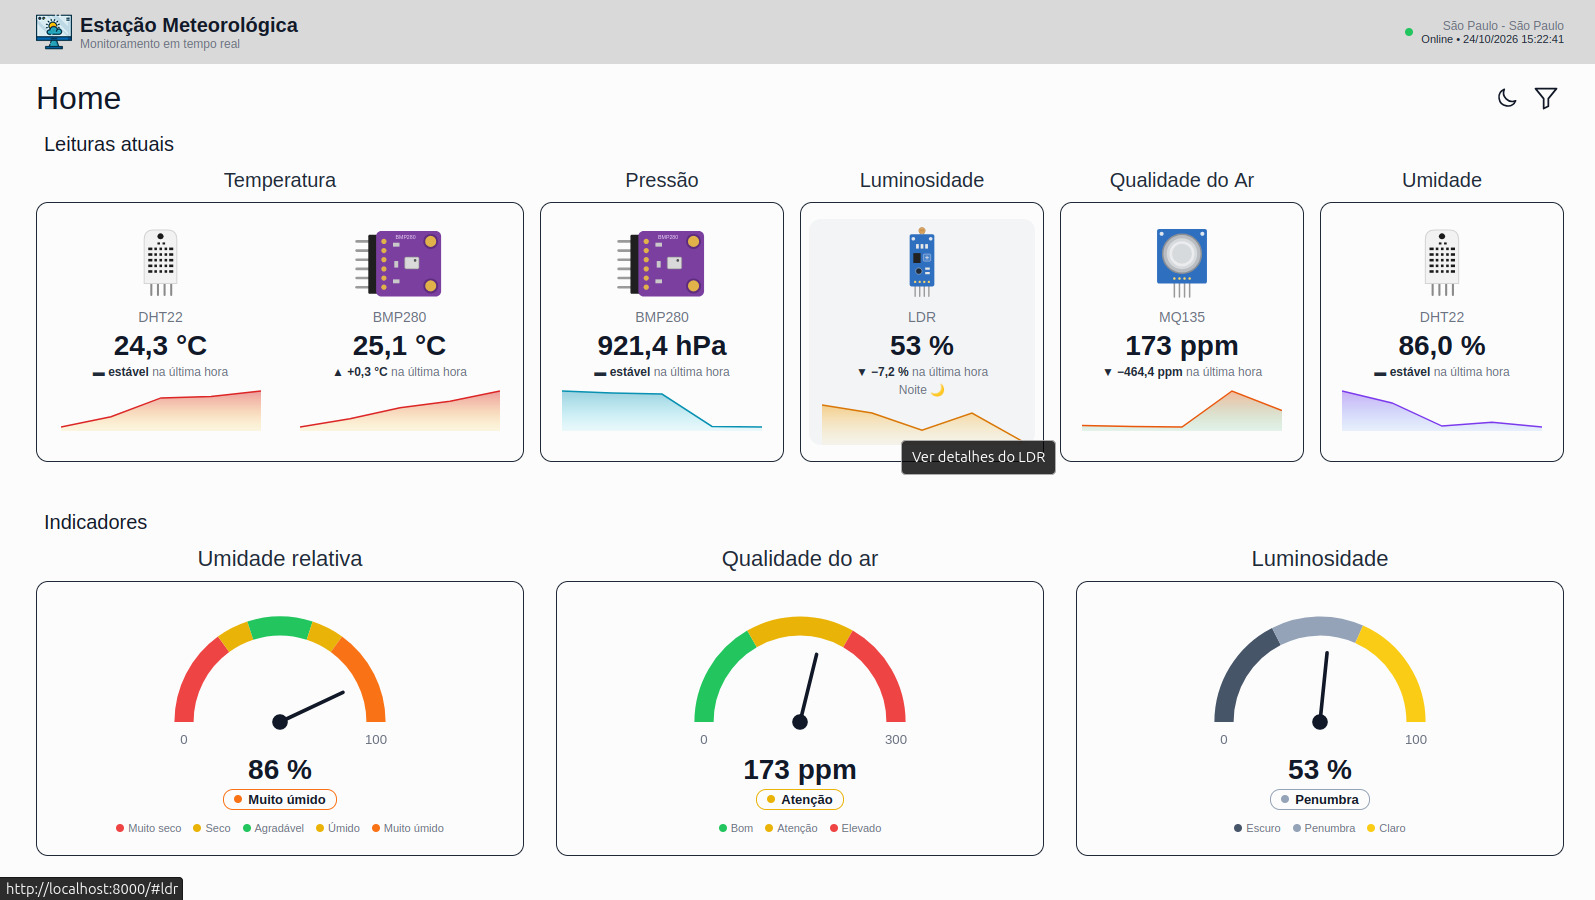
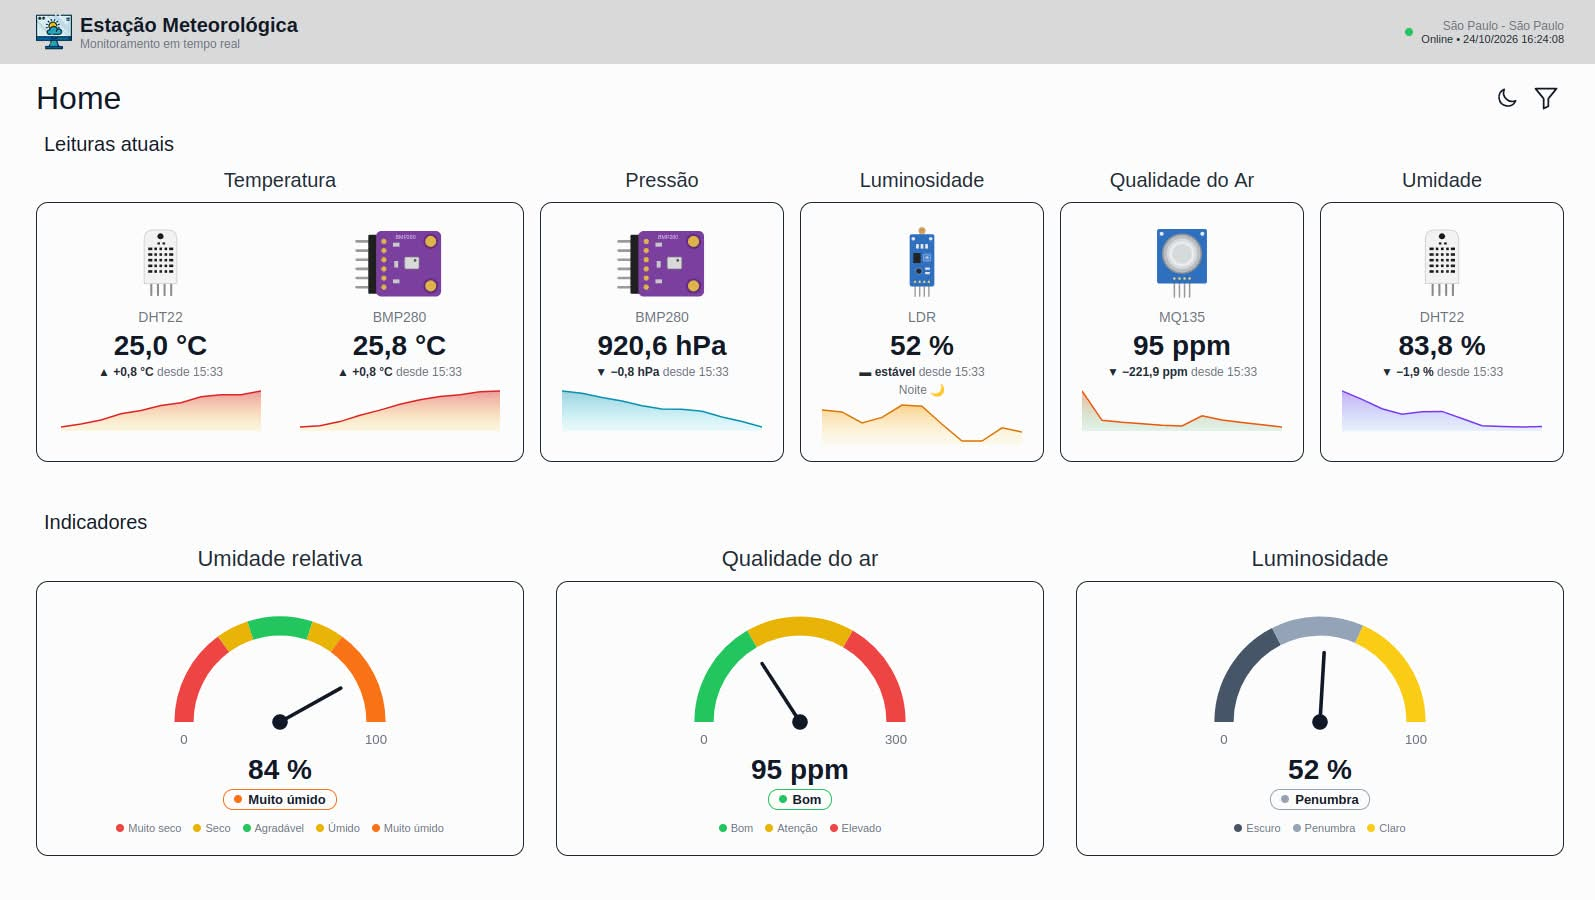
Ajustes no Readme - Att fotos, coteúdo

diff --git a/esp32/boot.py b/esp32/boot.py
@@ -9,8 +9,8 @@ from componentes import dados_compo
 
 
 # ---------- Config ----------
-SSID = '*PIMENTEL*' #iPhone de Pedro *PIMENTEL*
-PASSWORD = 'pedro1706@' #pedro1706@
+SSID = '' # Nome da rede
+PASSWORD = '' #Senha da rede
 
 MQTT_CLIENT_ID = "esp32_wokwi_demo_12345" #mexer
 MQTT_BROKER    = "broker.emqx.io" #não mexer

diff --git a/README.md b/README.md
@@ -9,6 +9,18 @@ Estação meteorológica embarcada que monitora condições ambientais, disponib
 O presente trabalho teve como objetivo o desenvolvimento de uma estação meteorológica embarcada destinada ao monitoramento de condições ambientais e à disponibilização de dados climáticos de forma pública e acessível.
 A proposta surgiu a partir da necessidade de ampliar o monitoramento ambiental em cidades inteligentes, possibilitando que informações relacionadas às condições climáticas sejam coletadas, processadas e disponibilizadas à população em tempo real.
 
+A estação utiliza os seguintes componentes:
+
+| Componente | Função |
+|---|---|
+| ESP32 | Executar o firmware e comunicar os dados pela rede. |
+| DHT22 | Medir temperatura e umidade do ar. |
+| BMP280 | Medir pressão atmosférica. |
+| MQ-135 | Fornecer um indicador relacionado à qualidade do ar. |
+| LDR | Detectar condições de luminosidade. |
+
+> O MQ-135 e o LDR fornecem valores brutos do conversor analógico-digital (ADC), não concentrações de gases ou valores de iluminância calibrados. A localização é aproximada e obtida pelo IP da conexão, não por GPS. O protótipo descrito não possui pluviômetro.
+
 ### 📈 Dashboard
 ![Dashboard](./front/assets/dashboard/dashboard.jpg)
 ![Dashboard](./front/assets/dashboard/dashboard2.jpg)
@@ -17,102 +29,238 @@ A proposta surgiu a partir da necessidade de ampliar o monitoramento ambiental e
 ![Dashboard](./front/assets/dashboard/dashboard5.jpg)
 ![Dashboard](./front/assets/dashboard/dashboard6.jpg)
 
+### 📈 Dashboard - Mobile
+![Dashboard](./front/assets/dashboard/dashboard_mobile.png)
+![Dashboard](./front/assets/dashboard/dashboard_mobile2.png)
+![Dashboard](./front/assets/dashboard/dashboard_mobile3.png)
 
 ### 🟢 Representação - Wokwi
+
 ![Representação](./front/assets/wokwi.png)
 
-### 🚀 Tecnologias Utilizadas
+## 🔄 Como os dados percorrem o sistema
 
-* **Linguagem:** MicroPython / JavaScript / Python 3.xx / HTML / CSS 
-* **Frameworks:** Flask / FlaskMQTT 
-* **Banco de Dados:** SQLite
-* **Outras Ferramentas:** Thonny IDE
+1. O ESP32 lê os sensores e organiza os valores em uma mensagem JSON.
+2. Pela rede Wi-Fi, o firmware publica a mensagem no tópico MQTT `esp32/post`.
+3. O backend Flask recebe a mensagem por meio do broker, armazena os dados no SQLite e disponibiliza consultas pela API.
+4. O dashboard consulta a API para apresentar indicadores, histórico, gráficos e resumos.
 
---- 
+Na versão descrita na documentação, o firmware aguarda **300 segundos entre publicações**, enquanto a interface consulta o backend a cada **10 segundos**. A atualização da interface não significa que o sensor gerou uma nova leitura a cada 10 segundos.
 
-## 🛠 Como Executar o Projeto 
+## 🚀 Tecnologias utilizadas
+
+- **Hardware:** ESP32, DHT22, BMP280, MQ-135 e LDR.
+- **Linguagens:** MicroPython, Python, JavaScript, HTML e CSS.
+- **Backend:** Flask, Flask-CORS e Flask-MQTT.
+- **Comunicação:** Wi-Fi e MQTT.
+- **Banco de dados:** SQLite.
+- **Interface:** jQuery e Flot.
+- **Ferramentas:** Thonny IDE e Wokwi.
+
+## 🛠 Como acessar e executar
+
+As instruções abaixo apresentam a execução local do dashboard, do backend e do firmware. Para receber novas leituras, é necessário que o ESP32 esteja montado, configurado e conectado, e que o backend consiga acessar o broker MQTT.
+
+> Não há endereço de acesso público informado neste README. A visualização sem o ESP32 pode depender dos dados existentes e da configuração da aplicação.
 
 ### Pré-requisitos
 
-*   **Placa ESP32** conectada ao computador por cabo USB de dados (cabos apenas de carregamento não funcionam).
-*   **Python 3.x** instalado na sua máquina ([python.org](https://www.python.org/)).
-*   **Thonny IDE** para escrever e enviar scripts ([thonny.org](https://thonny.org/)).
+- [Git](https://git-scm.com/downloads) instalado.
+- [Python 3](https://www.python.org/downloads/) e `pip` instalados no computador.
+- [Thonny IDE](https://thonny.org/) para transferir e acompanhar os arquivos do ESP32.
+- Placa ESP32 compatível, sensores e cabo USB com suporte a dados.
+- Acesso à rede Wi-Fi e ao broker MQTT configurado no projeto.
 
----
+### 1. Clonar o repositório
 
-### 1. Instalar a ferramenta de gravação (esptool)
-*Executado no Terminal / Prompt de Comando.*
+Abra um terminal e execute:
 
-Abra o Prompt de Comando/PowerShell (Windows) ou o Terminal (macOS) e instale o `esptool`:
 ```bash
-pip install esptool
+git clone https://github.com/brandon-ribeiro/Projeto_Estacao_Meteorologica.git
+cd Projeto_Estacao_Meteorologica
 ```
 
-### 2. Baixar o Firmware do MicroPython
-*Arquivo `.bin` para ESP32.*
+Os comandos das próximas seções consideram que você está na pasta raiz criada pelo Git, salvo indicação diferente.
 
-1. Acesse o site oficial: [micropython.org/download/ESP32_GENERIC](https://micropython.org/download/ESP32_GENERIC).
-2. Baixe a versão estável mais recente (arquivo com extensão `.bin`).
+### 2. Preparar o backend
 
-### 3. Identificar a Porta Serial do ESP32
-*Varia conforme o sistema operacional.*
+Acesse a pasta do backend e crie um ambiente virtual:
 
-Conecte a placa ao computador e localize o nome da porta serial:
-
-#### Windows
-1. Pressione `Win + X` e abra o **Gerenciador de Dispositivos**.
-2. Expanda a seção **Portas (COM e LPT)**.
-3. Identifique a porta referente ao ESP32 (exemplo: `COM3` ou `COM4`).
-
-#### macOS
-Abra o Terminal e rode:
 ```bash
-ls /dev/cu.usb*
+cd back
+python -m venv .venv
 ```
-A porta aparecerá com nome similar a `/dev/cu.usbserial-0001` ou `/dev/cu.wchusbserial...`.
 
-> **Nota:** Se a porta não aparecer em nenhum dos sistemas, instale os drivers do chip conversor USB-Serial da sua placa (geralmente CP210x ou CH340).
+No Windows, se `python` não estiver disponível, tente `py` no lugar de `python`. No macOS ou Linux, poderá ser necessário usar `python3`.
 
-### 4. Limpar a Memória Flash do ESP32
-*Prepara o chip para o novo firmware.*
+Ative o ambiente virtual conforme o sistema:
 
-Execute o comando correspondente substituindo `<PORTA>` pelo identificador obtido no passo anterior:
+**Windows — PowerShell:**
 
-#### Windows
+```powershell
+.venv\Scripts\Activate.ps1
+```
+
+**Windows — Prompt de Comando:**
+
 ```cmd
-esptool.py --chip esp32 --port COM3 erase_flash
+.venv\Scripts\activate.bat
 ```
 
-#### macOS
+**macOS ou Linux:**
+
 ```bash
-esptool.py --chip esp32 --port /dev/cu.usbserial-0001 erase_flash
-```
-*(Caso o processo pare em "Connecting...", pressione e segure o botão **BOOT** na placa ESP32 por 2 segundos).*
-
-### 5. Gravar o Firmware MicroPython
-*Substitua o caminho do arquivo `.bin`.*
-
-Execute o comando de gravação ajustando a porta e o nome do arquivo baixado:
-
-#### Windows
-```cmd
-esptool.py --chip esp32 --port COM3 --baud 460800 write_flash -z 0x1000 ESP32_GENERIC-20240222-v1.22.2.bin
+source .venv/bin/activate
 ```
 
-#### macOS
+Com o ambiente ativo, instale as dependências:
+
 ```bash
-esptool.py --chip esp32 --port /dev/cu.usbserial-0001 --baud 460800 write_flash -z 0x1000 ESP32_GENERIC-20240222-v1.22.2.bin
+python -m pip install -r requirements.txt
 ```
 
-### 6. Conectar via Thonny IDE e Rodar o Código
-*Ambiente de desenvolvimento recomendado.*
+### 3. Preparar o MicroPython no ESP32
 
-1. Abra o **Thonny IDE**.
-2. Vá em **Ferramentas > Opções** (Windows) ou **Thonny > Preferências** (macOS).
-3. Acesse a aba **Interpretador**.
-4. Selecione **MicroPython (ESP32)** no primeiro menu.
-5. No menu de porta, selecione a porta serial identificada anteriormente e clique em **OK**.
-6. O console inferior (Shell) exibirá o prompt do MicroPython (`>>>`).
+Se a placa já tiver uma versão compatível do MicroPython instalada, prossiga para a etapa 4. Caso contrário, confira o modelo exato do chip e siga as instruções de firmware correspondentes no [site oficial do MicroPython](https://micropython.org/download/).
 
-## Passo a Passo
-    
+O exemplo abaixo é destinado ao **ESP32 genérico**. Outros modelos, como ESP32-S2, S3 e C3, podem exigir outro firmware ou endereço de gravação.
+
+1. Instale a ferramenta de gravação no computador:
+
+   ```bash
+   python -m pip install esptool
+   ```
+
+2. Baixe o arquivo `.bin` adequado ao seu modelo na página [ESP32 Generic](https://micropython.org/download/ESP32_GENERIC/), se ela corresponder à sua placa.
+3. Conecte o ESP32 por USB e identifique a porta serial:
+   - **Windows:** abra o Gerenciador de Dispositivos e procure em **Portas (COM e LPT)**, por exemplo `COM3`.
+   - **macOS:** consulte as portas com `ls /dev/cu.*`.
+   - **Linux:** consulte as portas com `ls /dev/ttyUSB* /dev/ttyACM*`.
+4. Substitua `<PORTA>` pela porta encontrada e `firmware.bin` pelo caminho do arquivo baixado. Os comandos a seguir usam a sintaxe atual do `esptool`:
+
+   ```bash
+   python -m esptool --chip esp32 --port <PORTA> erase-flash
+   python -m esptool --chip esp32 --port <PORTA> --baud 460800 write-flash 0x1000 firmware.bin
+   ```
+
+   **Atenção:** `erase-flash` apaga o conteúdo da memória flash da placa. Faça uma cópia de arquivos que queira preservar antes de executá-lo. Confira também as instruções oficiais para o seu modelo antes da gravação.
+
+Se a conexão parar em `Connecting...`, algumas placas exigem manter o botão **BOOT** pressionado durante o início da conexão. Se a porta não aparecer, confira o cabo e o driver USB-serial correspondente à placa.
+
+### 4. Configurar o Thonny e transferir os arquivos
+
+1. Abra o Thonny e acesse **Ferramentas > Opções > Interpretador** (no macOS, acesse as preferências do Thonny).
+2. Selecione **MicroPython (ESP32)** e a porta serial da placa. Confirme se o Shell apresenta o prompt `>>>`.
+3. No menu **Exibir > Arquivos**, localize no computador a pasta `esp32` do repositório e visualize também os arquivos da placa.
+4. Transfira para a raiz do ESP32 o `boot.py` e os demais arquivos necessários da pasta `esp32`, incluindo `bmp280.py`. No Thonny, use a opção de enviar para o dispositivo disponível no menu de contexto dos arquivos.
+5. Antes de substituir o `boot.py` existente, salve uma cópia caso precise do conteúdo atual. Confirme no código quais arquivos são necessários para a execução e quais servem apenas para testes.
+
+**Arquivos mencionados no projeto:**
+
+- `boot.py`: arquivo de inicialização e configuração utilizado pelo projeto.
+- `bmp280.py`: código necessário para o funcionamento do sensor BMP280.
+- `componentes.py`: realiza verificações dos sensores e apresenta suas leituras.
+- `teste_i2c.py`: auxilia na verificação da comunicação I²C e na identificação do endereço do sensor, como `0x76`.
+
+### 5. Configurar a rede e a montagem
+
+No `boot.py`, preencha as variáveis correspondentes à sua rede Wi-Fi:
+
+```python
+SSID = ''      # Nome da rede Wi-Fi
+PASSWORD = ''  # Senha da rede Wi-Fi
+```
+
+A documentação informa a seguinte pinagem do firmware:
+
+| Componente | Interface | Pinos e configuração |
+|---|---|---|
+| DHT22 | Digital | GPIO 23 |
+| BMP280 | I²C | SCL: GPIO 22; SDA: GPIO 21; endereço `0x76`; frequência de 10 kHz |
+| LDR | ADC | GPIO 35; atenuação `ATTN_11DB` |
+| MQ-135 | ADC | GPIO 34; atenuação `ATTN_11DB` |
+
+A tabela indica os sinais declarados no firmware. Confira também alimentação, terra comum, tensão dos módulos e ligações da montagem antes de energizar o circuito; não aplique ao ESP32 sinais acima da tensão permitida.
+
+A configuração MQTT descrita no projeto é:
+
+| Configuração | Valor |
+|---|---|
+| Broker | `broker.emqx.io` |
+| Porta | `1883` |
+| Publicação de leituras | `esp32/post` |
+| Recebimento de comandos | `esp32/get` |
+| Keepalive | 60 segundos |
+
+O broker é público e a configuração documentada não utiliza autenticação nem TLS. Os tópicos são compartilháveis: outras pessoas podem publicar ou ler mensagens neles. Para uso além da demonstração, configure broker protegido, autenticação, TLS e tópicos próprios no ESP32 e no backend. O firmware descrito usa um identificador de cliente fixo; placas simultâneas devem usar identificadores únicos.
+
+O firmware também importa `urequests` e `umqtt.simple`. Confira se esses módulos estão disponíveis no MicroPython da placa; as dependências instaladas com `pip` no computador não são automaticamente instaladas no ESP32.
+
+> Não publique senhas nem outras credenciais no repositório. Antes de compartilhar o código, remova os dados da sua rede.
+
+### 6. Iniciar o backend
+
+No terminal em que o ambiente virtual foi ativado, ainda dentro da pasta `back`, execute:
+
+```bash
+python app.py
+```
+
+Mantenha esse terminal aberto. Consulte as mensagens exibidas para verificar a inicialização do backend e a conexão MQTT. Na configuração descrita na documentação, o dashboard consulta a API em `http://127.0.0.1:5000`. Se alterar o endereço ou a porta do backend, atualize também a configuração do frontend.
+
+### 7. Iniciar o ESP32
+
+Com o backend em execução, reinicie a placa ou execute o arquivo de inicialização no Thonny, de acordo com o funcionamento do firmware. Acompanhe o Shell para conferir a conexão Wi-Fi, a conexão MQTT e eventuais mensagens de erro.
+
+As leituras só chegarão ao backend se o ESP32 e o backend estiverem configurados para usar um broker e tópicos MQTT compatíveis.
+
+### 8. Abrir o dashboard
+
+Abra **outro terminal**, acesse a raiz do repositório e execute:
+
+```bash
+cd front
+python -m http.server 8000
+```
+
+Abra [http://localhost:8000](http://localhost:8000) no navegador. Se a página principal possuir outro nome que não seja `index.html`, acrescente o nome do arquivo à URL. Mantenha os dois terminais abertos durante o uso.
+
+## 🌐 Rotas da API
+
+Com o backend ativo e configurado na porta 5000, as rotas de consulta podem ser acessadas no navegador:
+
+| Método e rota | Finalidade |
+|---|---|
+| `GET /dados` | Retorna a última leitura classificada como dados de sensores. |
+| `GET /historico?limite=10` | Consulta o histórico, com opção de limitar os resultados e filtrar por tipo. |
+| `GET /historico/periodo?horas=3&pontos=60` | Consulta médias por intervalo, relativas à última leitura armazenada. |
+| `GET /resumo/diario?dias=7` | Consulta resumo diário das leituras. |
+| `POST /comando` | Publica um comando em `esp32/get`. No firmware descrito, o recebimento é exibido no terminal. |
+
+Por exemplo, acesse [http://127.0.0.1:5000/dados](http://127.0.0.1:5000/dados) para consultar a última leitura. O conteúdo retornado depende dos dados disponíveis no banco.
+
+## 💾 Armazenamento e limitações
+
+O backend registra o payload original em `leituras` e organiza os dados em tabelas relacionadas: `dht_leituras`, `bmp_leituras`, `ldr_leituras`, `mq_leituras` e `gps_leituras`. Apesar do nome da última tabela, a localização documentada é obtida por IP.
+
+A documentação relata testes locais de quatro rotas GET e uma inserção sintética em banco isolado. Esses ensaios não comprovam operação contínua, desempenho em rede nem calibração dos sensores. Ela também registra que a aplicação não valida fisicamente as faixas de medição antes da gravação. A localização é aproximada e a instalação do frontend e backend em um computador não torna o dashboard público automaticamente.
+
+A pausa de 300 segundos entre envios supera o keepalive configurado de 60 segundos; a estabilidade da conexão e o recebimento de comandos requerem testes adicionais e revisão da rotina de comunicação.
+
+## 🔎 Problemas comuns
+
+- **A porta serial não aparece:** confira se o cabo transmite dados, verifique o driver USB-serial e tente outra porta USB.
+- **O ESP32 não se conecta ao Wi-Fi:** confira o nome e a senha da rede e a compatibilidade da rede com a placa.
+- **O backend não recebe dados:** confira a conexão com o broker, os tópicos MQTT configurados e as mensagens nos terminais do backend e do ESP32.
+- **O dashboard abre sem dados:** confirme se o backend está ativo, se a interface aponta para o endereço correto da API e se há leituras disponíveis.
+- **Os sensores não respondem:** confira a alimentação, os pinos GPIO, as conexões e as mensagens do Shell. Para o BMP280, utilize `teste_i2c.py` para auxiliar no diagnóstico.
+- **O servidor web não inicia:** verifique se a porta `8000` já está em uso; se necessário, escolha outra porta no comando e use a mesma porta no navegador.
+
+## 👥 Colaboradores
+
+- Brandon Gabriel Consoli Ribeiro
+- Luiz Ricardo Bandeliauskas de Castro
+- Matheus Henrique da Silva Anunciação
+- Pedro Henrique Silva Pimentel
+
+Projeto desenvolvido no curso de Ciência da Computação da Universidade Paulista — UNIP.
